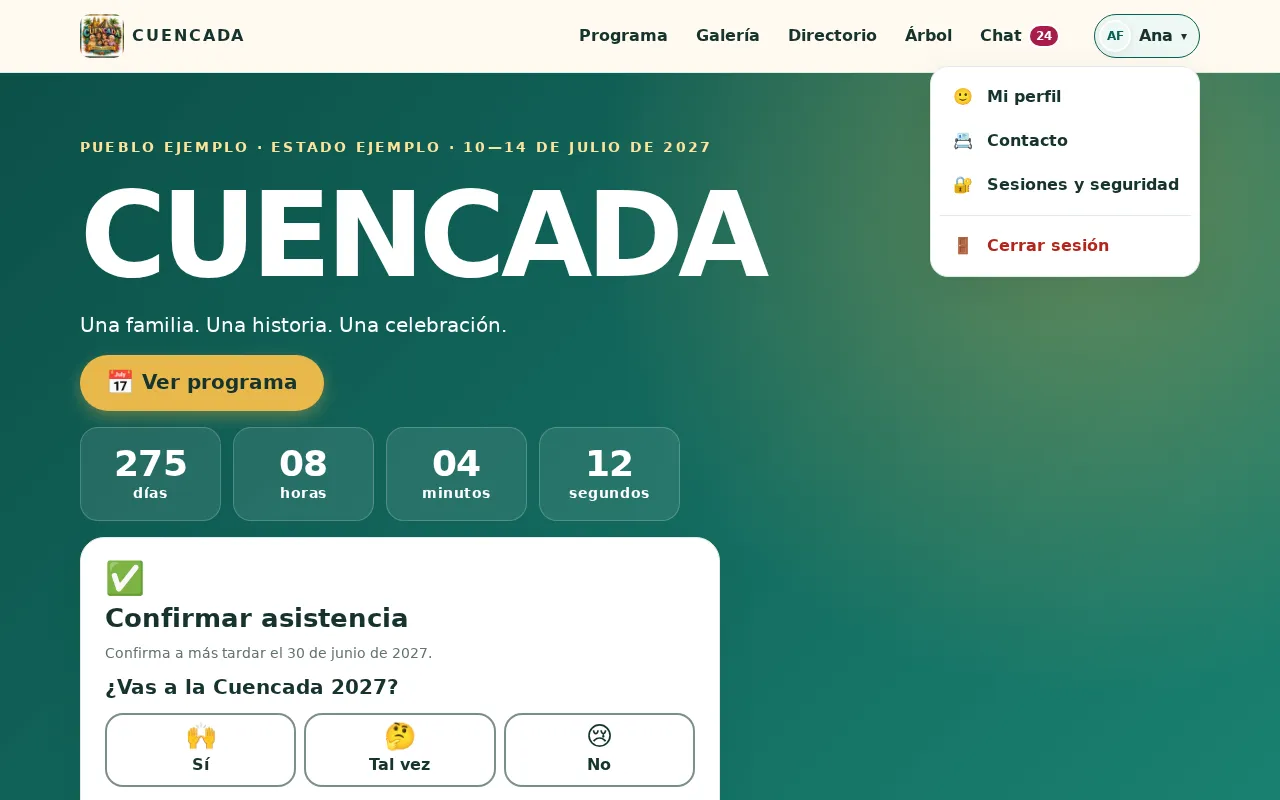
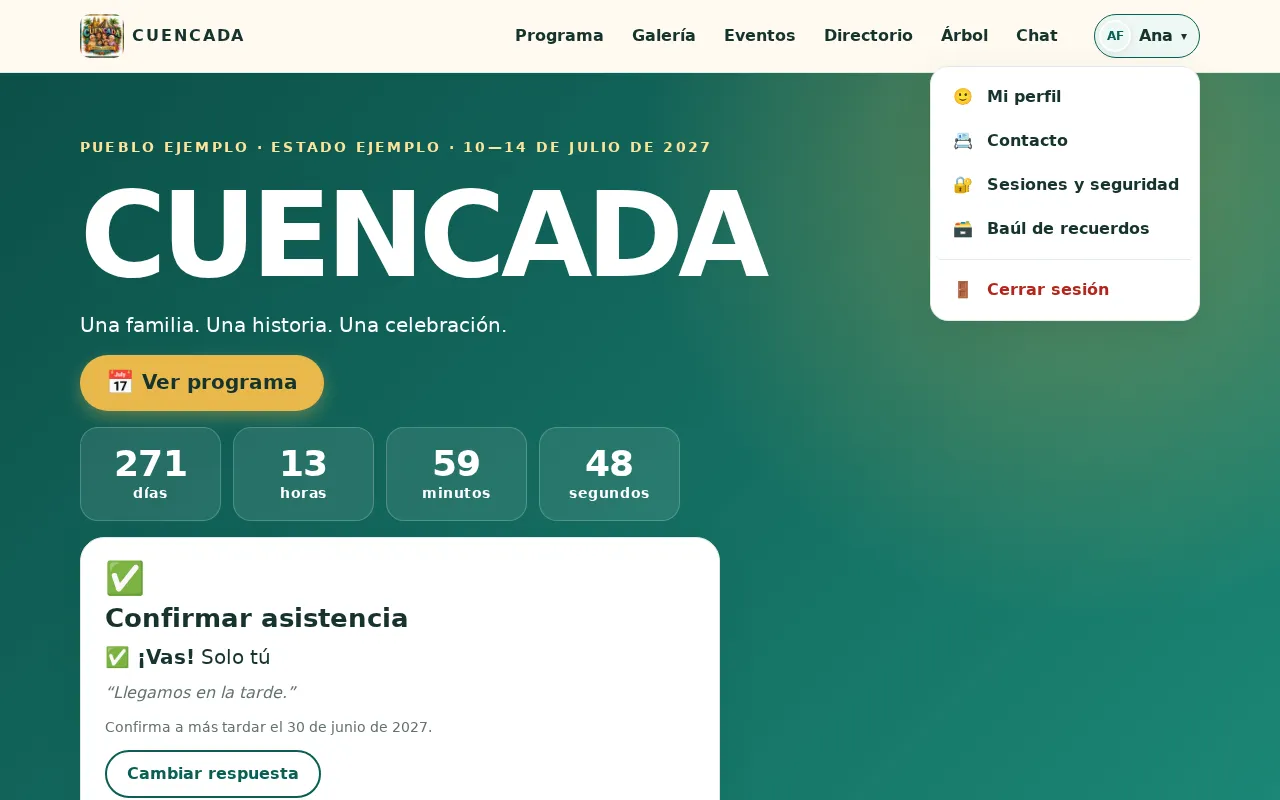
WP-6.3: coordination doc, backlog items and screenshots
Claude-Session: https://claude.ai/code/session_01Bj2xLmagfFJ5w53HEUn9Sj

diff --git a/docs/coordination/WP-6.3.md b/docs/coordination/WP-6.3.md
@@ -1,0 +1,64 @@
+# WP-6.3 Memory Box ("Baúl de recuerdos") [SEC]
+Owner: Senior full-stack JS (BE + FE) with UI/UX · Branch: `wp/6.3-memory-box` · PR: (not opened)
+
+Based on `origin/main` @ 83dbb88 (WP-6.0 contracts + migration 0010). Implements the WP-6.3 interfaces of `docs/coordination/WP-6.0.md` under ADR 0001 §8 (binding). No migration: 0010 already has `memory_albums`, `media_items.memory_album_id` and the `memories/{uuid}` prefix CHECKs. Owner decision: admins create and manage boxes; **any verified member** adds photos (and, with WP-6.2, tags people).
+
+## Server (`apps/server/src/modules/memories/`, registered in `app.ts`)
+| Route | Who | Notes |
+|---|---|---|
+| `GET /api/memories` | verified member | published boxes only (admins too), `sort_order` then newest; per-caller `mediaCount`; cover URL |
+| `GET /api/memories/:id` | member (published), admin (any) | `memoryAlbumDetailSchema`, `canUpload` |
+| `GET /api/memories/:id/media` | member (published), admin (any) | keyset page (`listGallery` with the box scope), items carry `memoryAlbum` |
+| `POST /api/memories/:id/uploads` | member (published), admin (any) | the gallery's `createPendingUpload` (shared locked daily budget), prefix `memories/{box.id}` from the row, box re-checked under its row lock inside the budget step; 30/min per user (gallery cap) |
+| `GET /api/admin/memory-albums` | admin | every status |
+| `POST /api/admin/memory-albums` | admin | draft by default; ≤ 200 boxes (advisory-locked count) |
+| `PATCH /api/admin/memory-albums/:id` | admin | title, description, status, sort order, `coverMediaId` (must be a live, ready, approved **photo of this box**, else 400 `VALIDATION` on `coverMediaId`; `null` clears) |
+| `PUT /api/admin/memory-albums/order` | admin | every box id (409 when the set changed); `sort_order` = index |
+| `DELETE /api/admin/memory-albums/:id` | admin | 409 `MEMORY_ALBUM_NOT_EMPTY` while any row is not soft-deleted; otherwise the soft-deleted rows are purged in the transaction (their tags, likes, comments, reports and notifications cascade) and their objects deleted after the commit |
+
+- Admin writes share one limiter (120/h per user). Every box write is audited with ids, statuses, field names and counts only (`memory_album.created|updated|published|hidden|deleted|reordered`; `updated.fields` sorted); never titles or descriptions.
+- Errors: `memories/errors.ts` (`MEMORY_ALBUM_NOT_FOUND` / `MEMORY_ALBUM_NOT_EMPTY` on `path: "memoryAlbum"`). A draft, hidden and missing box answer the identical 404.
+
+### Media module changes (scope wiring)
+- **`mediaScopeSql`**: the explicit published-box branch `(memory_album_id is not null and exists (… scope_memory.status = 'published'))`; the final deny stays (edition | event album | published box | nothing else). Every by-id route, `viewableSql` (WP-6.2's social routes and WP-6.1's notification filter) and the admin list inherit it.
+- **Records**: `selectRecords`/`selectAdminRecords` left-join `memory_albums`; `MediaRecord.memoryAlbum`; `toMediaItem` sets `memoryAlbum: { id, title }` for box rows and `null` otherwise.
+- **`listGallery`** takes `memoryAlbumId`; **`listAdmin`** filters `?memoryAlbumId=`.
+- **`files.ts`**: `memoryStoragePrefix(box)`; **`uploadIntent.ts`**: the `memoryAlbumId` scope.
+- **Confirm** (`routes.ts`): `keysMatchPrefix` re-derives `memories/{box.id}` from the joined box row (stored prefix and original key must match, else `prefix_mismatch`), and for box rows the transaction first locks the box row `for share` and re-checks `published` (admins: any). The upload audit carries `memoryAlbumId`.
+- **Jobs, cleanup, orphan sweep**: already prefix-generic since WP-5.3 (`storagePrefixOf`): processing writes `memories/{id}/thumbs|display/…`, the leftover sweep and purge cover `memories/`; now tested on that prefix.
+
+## Web (`apps/web/src/features/memories/`, all lazy)
+- **`/recuerdos`** "Baúl de recuerdos": cards (a 4:3 cover on a cream mat like an old print, or a warm placeholder with 🗃; title as the stretched link; "N fotos y videos"; description, 3 lines). Empty state; admins get "Administrar".
+- **`/recuerdos/:id`**: back link, title, count, description, then the gallery's **unchanged** `Uploader`, `MediaGrid`, `GalleryLightbox` and `UploadPanel` on a new gallery scope `{ kind: "memory", memoryAlbumId, label }`. WP-6.2's lightbox features (hearts, tags, comments, `?foto=`) arrive with no change here. A malformed id, a missing box and a draft/hidden box all show "No encontramos ese baúl" (malformed ids never reach the API).
+- **Panel → "Baúl de recuerdos"** (`/admin/recuerdos`, also in the admin sections list): rows with cover, status badge (Borrador / Publicado / Oculto), count and creator; ↑/↓ reorder (optimistic, rolled back on 409); Editar (sheet: Título, Descripción, Estado, Portada: "Automática" or one of the box's ready photos, videos excluded); Publicar (one tap) / Ocultar (confirmed: "ni sus fotos, etiquetas, corazones o comentarios"); Eliminar (confirmed; the 409 is explained).
+- **Nav**: Más → "Baúl de recuerdos"; AccountMenu "Baúl de recuerdos" (after Sesiones, before Eventos) at every width; **not** in the TopNav (no room). Home: a lazy, members-only strip (max 3, "Ver todos"), silent while loading, on errors and when there is no published box.
+- **Gallery scope wiring** (shared files, minimal): `lib/mediaScope.ts` (`memory` kind, key `memory:{id}`), `api.ts` (`listMemoryMedia`, `memoryMediaHead`, `createMemoryUpload`, `memoryAlbumOf`; caption/delete patch the box list; confirm/delete invalidate the box card and lists), `upload/uploadManager.ts` (intent, discard, poll), `components/ItemDialogs.tsx` (passes the box). `shared/api/baseApi.ts`: the `MemoryAlbum` tag. `test/msw.ts`: the default `GET /memories` handler (Home).
+
+## Decisions
+1. **Cover fallback:** with no chosen cover (or a chosen one no longer visible: hidden, deleted, not ready), the card shows the box's newest ready + approved photo, else the placeholder. The contract's "else `null`" now means "no visible photo at all". Visible to everyone means ready + approved + live, never a pending item of someone else.
+2. **`mediaCount` per caller:** members get the gallery's member visibility (ready + approved, plus their own processing / pending-review items); admins get every live, confirmed item (what blocks a delete).
+3. **`GET /api/memories` is published-only for admins too**; the panel list is the admin route.
+4. **Admins may upload to drafts and hidden boxes** (to prepare a box before publishing); members only to published boxes.
+5. **A member's own photo in a hidden box is 404 to them too** (every by-id route, delete included), like media in an event they left: the scope check comes before ownership.
+6. **Delete = 409 while any row is live, pending uploads included** (mirrors `EVENT_ALBUM_NOT_EMPTY`); the abandoned-upload cleanup soft-deletes stale intents within minutes.
+7. **Reorder takes the full id set** under the same advisory lock as create; a stale set is 409 (not 400) so the web can say "the list changed".
+8. **Registered in `app.ts`** after `eventsModule`.
+
+## Security (ADR 0001 §8 requirement 5, the web requirements)
+- Members see and upload to published boxes only, re-checked at the intent and at confirm under the box row lock; the prefix is derived from the box row and confirm rejects a mismatch; one shared locked budget.
+- Hiding a box hides its media and all their social data everywhere: one predicate (`mediaScopeSql` → `viewableSql`) that every social, notification, count and "Fotos de" read goes through. Tested at the predicate (`memoryScope.test.ts`), on every existing route and in the PII scan.
+- An invisible box and a missing one look identical in the API (404 + `MEMORY_ALBUM_NOT_FOUND`) and on the web ("No encontramos ese baúl").
+- Rollback floor: `docs/deploy/runbook.md` § 5 (never below WP-6.0 once box rows exist; 6.0–6.2 code is safe, it denies box rows) and the WP-6.3 deploy note.
+
+## Tests
+- **Server:**
+  - `modules/memories/routes.test.ts` (18): list order, published-only, per-caller counts, cover choice and fallback; 404 matrix for draft/hidden/missing on `/:id` and `/media` (admins 200); keyset paging with the box ref; upload → confirm → sharp job → listed, keys under `memories/{id}`; draft/hidden refused (no row), admins upload to drafts; confirm after a hide → 404 and the row stays pending; `prefix_mismatch`; DB refuses another box's prefix; shared budget 429; admin create/edit/publish/hide with audit metadata (no titles); cover validation (other box, video, hidden, deleted → 400); unknown id 404, empty patch 400; delete 409 then purge + objects; reorder and stale 409, duplicate ids 400; admin list order; admin media `?memoryAlbumId=`; the cleanup sweep on `memories/`.
+  - `modules/media/memoryScope.test.ts` (6, rewritten from WP-6.0): draft and hidden box photos 404 on GET/PATCH/report/DELETE/confirm for members (uploader included) and untouched; published reachable; hide → 404, republish → 200; one row per scope through `viewableSql` (edition, joined album, published box allowed; foreign album, draft and hidden box denied; admins all); tags, likes, comments and a notification on a box photo reachable through `viewableSql` while published and unreachable once hidden or draft.
+  - Authz matrix (`__tests__/security/memoryRouteMatrix.ts`): the 9 routes for every principal; draft and hidden box probes (404, state unchanged) on the four member routes; "own / another member's photo in a draft / hidden box" probes added to `GET|PATCH|DELETE /api/media/:id`, `/report` and `/confirm`. `docs/security/routes.md` regenerated.
+  - PII scan (`pii-leak.test.ts`): a hidden box's title, photo id, caption, tag, comment and notification never reach a member through the box routes or `/api/media/:id`, and its by-id URLs are 404.
+- **Web** (RTL + MSW): `MemoriesPage.test.tsx` (cards, placeholder, counts, drafts not shown, empty state, admin shortcut; box page grid + lightbox; the identical not-found state for hidden/draft/missing without a media request; malformed id; upload button and the intent to `/memories/:id/uploads`), `AdminMemoriesPage.test.tsx` (statuses, create with validation, publish, confirmed hide, reorder body, edit + cover picker without videos, the 409 explanation, delete; `moveId`), `HomeMemories.test.tsx` (max 3, compact, hidden when empty, not requested for visitors), `lib/format.test.ts`; `AccountMenu.test.tsx` and `MorePage.test.tsx` updated for the new entry.
+- **e2e**: `tests/e2e/memories.spec.ts` (a member uploads to the seeded published box and opens it in the lightbox, another member reaches it from Más and sees it, the seeded hidden box and a missing id show the same not-found; desktop: an admin creates and publishes a box from Panel). Gates (`quality.spec.ts`, 320/375 + axe): `/recuerdos`, `/recuerdos/{box}`, the hidden-box not-found, `/admin/recuerdos` and its edit sheet. Seed: one published and one hidden box (`harness/seed.ts`, fictional titles).
+- **Screenshots** (`docs/ux/screenshots/recuerdos/`): `lista`, `baul` (375 + 1280), `panel` (1280).
+
+## Verification
+See the end of this file (filled in when the branch was last verified).

diff --git a/docs/coordination/backlog.md b/docs/coordination/backlog.md
@@ -225,3 +225,6 @@ WP-2.4 prepared every item below; **the owner applies them** following
 - [ ] WP-6.0: drop `event_participants.notice_seen_at` (contract migration) once no shipped web build calls `GET /api/events/notices` / `DELETE /api/events/:id/notice`.
 - [ ] WP-6.0: a person-merge undo does not restore tags or pending proposals moved to keep (ADR 0001 §8); revisit if admins need it.
 - [ ] WP-6.0: the notification push uses the single-process chat hub (`sendToUser`), like event rooms; a second API process needs the shared bus too.
+- [ ] WP-6.3: the panel's cover picker offers the box's first 30 photos (one gallery page); add "Cargar más" there, or "Usar como portada" in the lightbox for admins, if boxes grow large.
+- [ ] WP-6.3: reorder boxes by drag and drop (today ↑/↓, saved at once); fine for the expected handful of boxes.
+- [ ] WP-6.3: a member's photos in a box that is later hidden stay invisible to that member too (same as event albums); if owners want "my uploads" across hidden boxes, add it to the profile.
